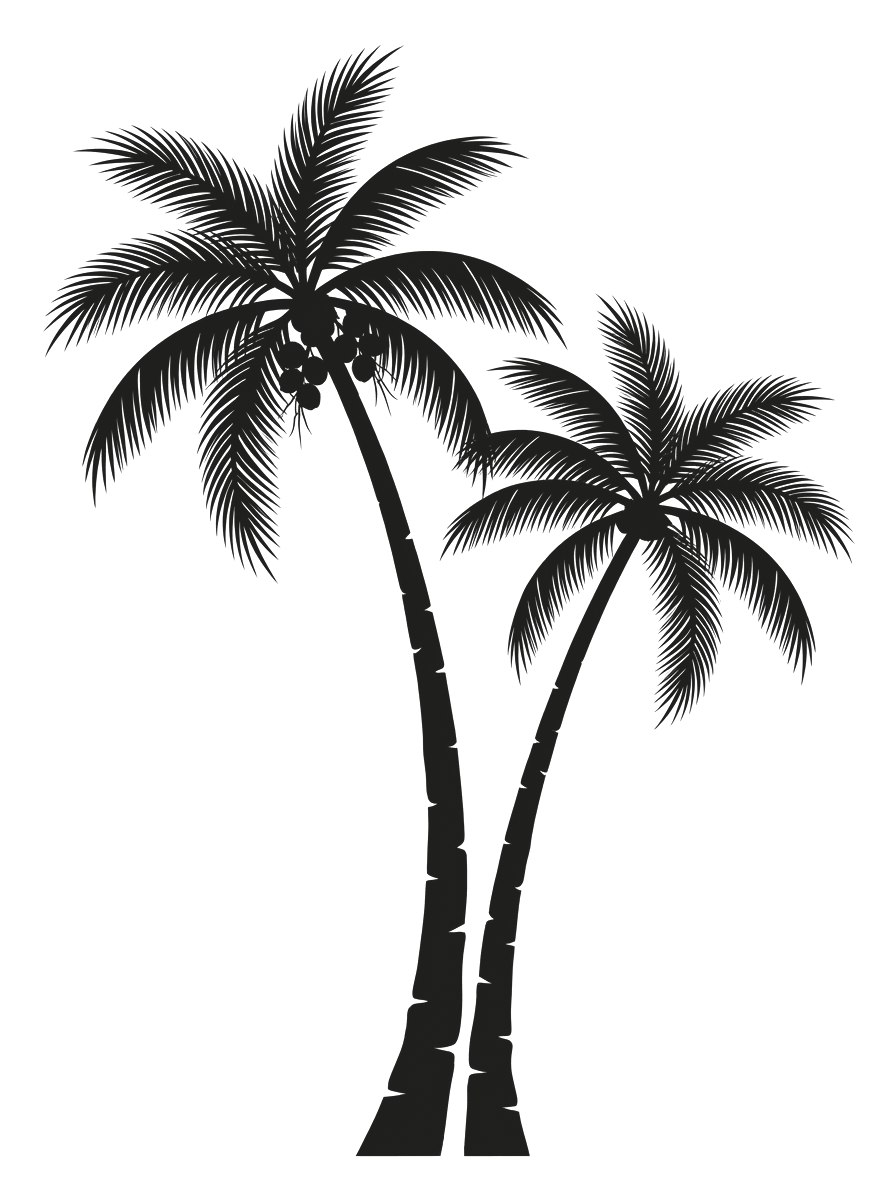
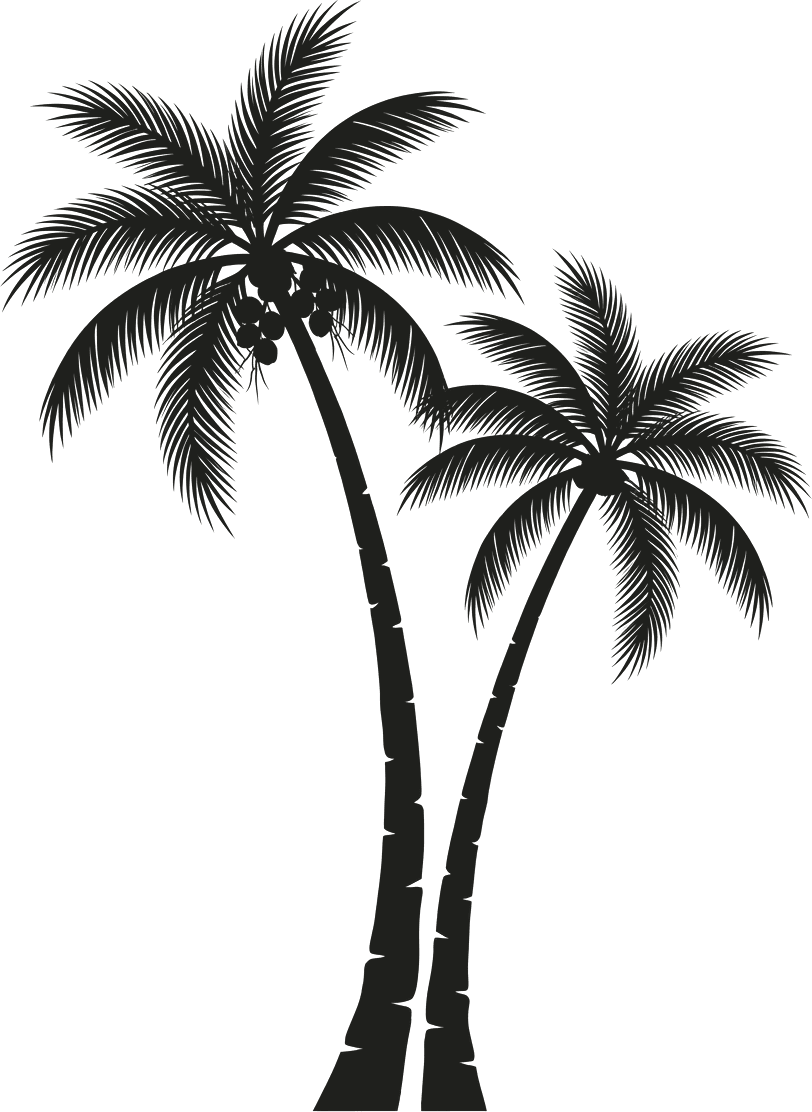
style: crop palms to bottom edge and anchor directly to section bottom border

Changed region(s): [[0.0, 0.0, 1.0, 1.0], [0.431, 0.8561, 0.4618, 0.9173]]

diff --git a/website/components/Hero.tsx b/website/components/Hero.tsx
@@ -12,6 +12,18 @@ export default function Hero({ content, lang }: HeroProps) {
 
   return (
     <section className="bg-[#f7fbfc] pt-12 pb-14 border-b border-gray-100 relative overflow-hidden">
+      {/* Subtle Florida Palms Watermark pinned directly to the bottom border & aligned to the right */}
+      <div className="absolute right-2 sm:right-8 lg:right-16 xl:right-24 bottom-0 w-48 sm:w-64 md:w-80 lg:w-96 pointer-events-none select-none z-0 opacity-[0.07] overflow-hidden leading-none">
+        <Image
+          src="/images/florida-palms-silhouette.png"
+          alt=""
+          width={812}
+          height={1112}
+          className="w-full h-auto object-contain object-bottom block"
+          priority={false}
+        />
+      </div>
+
       <div className="max-w-7xl mx-auto px-4 sm:px-6 lg:px-8 relative z-10">
         {/* Main Centered Header */}
         <div className="text-center mb-10">
@@ -39,20 +51,8 @@ export default function Hero({ content, lang }: HeroProps) {
           </div>
 
           {/* Right Column: 5 Bullet points with FontAwesome checkmark + CTA */}
-          <div className="lg:col-span-7 space-y-5 relative">
-            {/* Subtle Florida Palms Watermark in lower right behind text */}
-            <div className="absolute right-0 -bottom-6 sm:-bottom-8 w-56 sm:w-72 md:w-80 pointer-events-none select-none z-0 opacity-[0.06] overflow-hidden">
-              <Image
-                src="/images/florida-palms-silhouette.png"
-                alt=""
-                width={896}
-                height={1199}
-                className="w-full h-auto object-contain object-bottom-right"
-                priority={false}
-              />
-            </div>
-
-            <div className="space-y-3.5 relative z-10">
+          <div className="lg:col-span-7 space-y-5">
+            <div className="space-y-3.5">
               {hero.bullets.map((bullet: string, idx: number) => (
                 <div key={idx} className="flex items-start gap-3">
                   <CheckCircle className="w-5 h-5 text-[#20c063] shrink-0 mt-0.5" />
@@ -63,11 +63,11 @@ export default function Hero({ content, lang }: HeroProps) {
               ))}
             </div>
 
-            <p className="pt-2 text-[15px] sm:text-[16px] font-medium text-gray-900 leading-relaxed relative z-10">
+            <p className="pt-2 text-[15px] sm:text-[16px] font-medium text-gray-900 leading-relaxed">
               {hero.cta_text}
             </p>
 
-            <div className="pt-2 relative z-10">
+            <div className="pt-2">
               <a
                 href="#findmyhome"
                 className="inline-block px-8 py-3.5 bg-[#31312c] hover:bg-[#20c063] text-white font-bold text-sm tracking-wide uppercase rounded-xl shadow-md transition-all"
